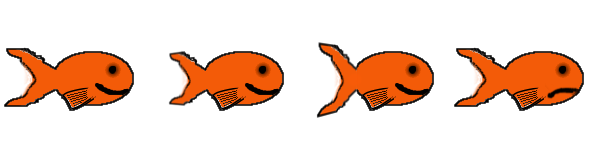
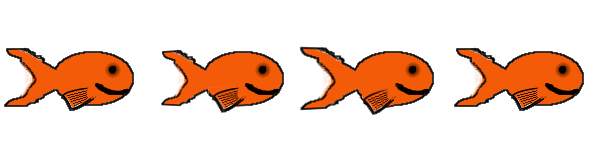
new stuff abraham

diff --git a/src/characters/Fish.java b/src/characters/Fish.java
@@ -6,6 +6,7 @@ import java.awt.event.MouseEvent;
 import java.awt.image.BufferedImage;
 import java.io.IOException;
 
+import misc.SpriteSheet;
 import misc.Util;
 
 /**
@@ -19,7 +20,6 @@ public class Fish extends Character {
 	 */
 	private static final long serialVersionUID = -1015644809982634515L;
 	
-	private static BufferedImage fish;
 	
 	private boolean hasCollided;
 	
@@ -48,6 +48,9 @@ public class Fish extends Character {
 	private static boolean controllable=true;
 	private long controlCounter=1000;
 	
+	private static SpriteSheet fish;
+	private int spriteNum=(int) (Math.random()*3+1);
+	
 	/**
 	 * Creates a fish with initial x,y and default health value
 	 * @param xPos the initial x position
@@ -59,6 +62,7 @@ public class Fish extends Character {
 		this.lag = lag;
 		lagC=lag;
 		this.initialX=xPos;
+		forward=Math.random()>0.5?true:false;
 		
 	}
 	
@@ -74,12 +78,17 @@ public class Fish extends Character {
 	 * loads image of fish
 	 */
 	public void loadRes(){
+		BufferedImage tmp=null;
 		try {
-			if(fish==null)
-				fish = Util.loadImage("/goldfish.png", this);
+			if(fish==null){
+				tmp = Util.loadImage("/Goldfish5x(150x150).png", this);
+				fish=new SpriteSheet(tmp,1,5,150,150);
+			}
 		} catch (IOException e) {
 			e.printStackTrace();
 		}
+		
+		
 	}
 	
 	/**
@@ -107,10 +116,13 @@ public class Fish extends Character {
 		if(leftPressed && !rightPressed && !getBack && controllable && keysReleasedAfterGetBack){
 			xVel=-5+lagC;
 			lostGround-=lagC;
+			swimSpeed=12;
+			spriteNum=5;
 		}
 		else if(rightPressed && !leftPressed &&!getBack && controllable && keysReleasedAfterGetBack){
 				xVel=5-lagC;
 				lostGround+=lagC;
+				swimSpeed=2;
 				
 		}else{
 			if(lostGround>3){
@@ -127,11 +139,14 @@ public class Fish extends Character {
 			yVel=-5;
 			if(angle>-Math.PI/10.0f)
 				angleVel=-.01;
+			swimSpeed=2;
 		}
 		else if(downPressed && !stopCheating && !getBack && controllable){
 			yVel=6;
 			if(angle<Math.PI/10.0f)
 				angleVel=.01;
+			swimSpeed=3;
+			
 		}
 		
 		if(xPos<-(6f/7f)*Util.getDISTANCE_TO_EDGE()){
@@ -216,8 +231,38 @@ public class Fish extends Character {
 			
 		}
 		
+		swim();
+		
 	}
 	
+	private boolean forward;
+	private long limitSwim=0;
+	private int swimSpeed=4;
+	private void swim(){
+		if(limitSwim%swimSpeed==0 && swimSpeed<=7){
+			if(spriteNum==1){
+				if(forward){
+					spriteNum=3;
+					forward=false;
+				}else{
+					spriteNum=2;
+					forward=true;
+				}
+			}
+			else if(!leftPressed){
+				spriteNum=1;
+			}
+		}
+		limitSwim++;
+		if(limitSwim%7==0 && swimSpeed!=6){
+			if(swimSpeed>6){
+				swimSpeed-=1;
+			}if(swimSpeed<6){
+				swimSpeed+=1;
+			}
+		}
+		
+	}
 	/**
 	 * @param g render 2D graphics of fish
 	 */
@@ -225,7 +270,7 @@ public class Fish extends Character {
 	public void render(Graphics2D g){
 		g.translate(getX(), getY());
 		g.rotate(angle);
-		g.drawImage(fish,0,0,200,200,null);
+		g.drawImage(fish.getSprite(1, spriteNum),0,0,200,200,null);
 		g.rotate(-angle);
 		g.translate(-getX(), -getY());
 	}
@@ -260,6 +305,9 @@ public class Fish extends Character {
 	 */
 	public void setCaptured(boolean b){
 		this.captured=b;
+		if(b==true){
+			spriteNum=4;
+		}
 	}
 	
 	/**

diff --git a/src/games/OverfishingGame.java b/src/games/OverfishingGame.java
@@ -258,6 +258,7 @@ public class OverfishingGame extends Game {
 				Fish f = i.next();
 				if(e.isIn(f)){
 					e.addAttachedFish(f);
+					f.setCaptured(true);
 					i.remove();
 				}
 			}
